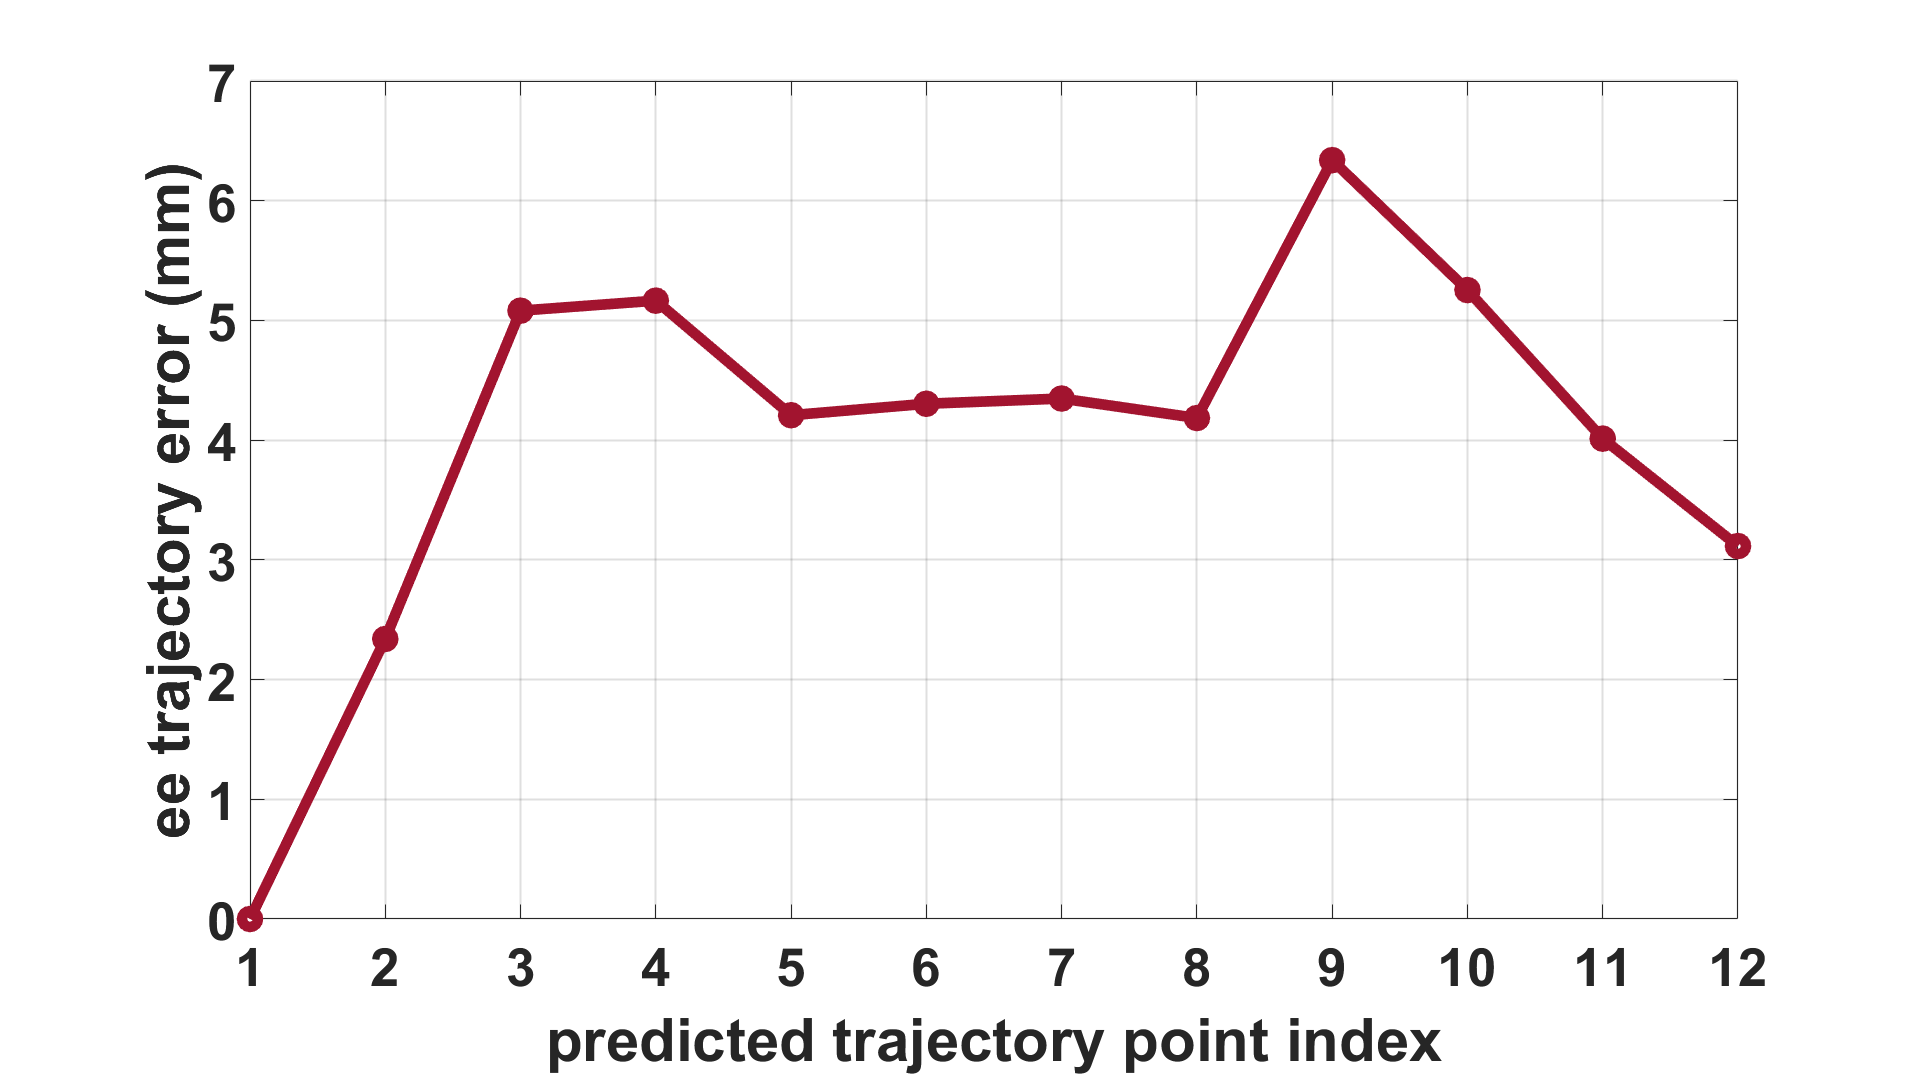
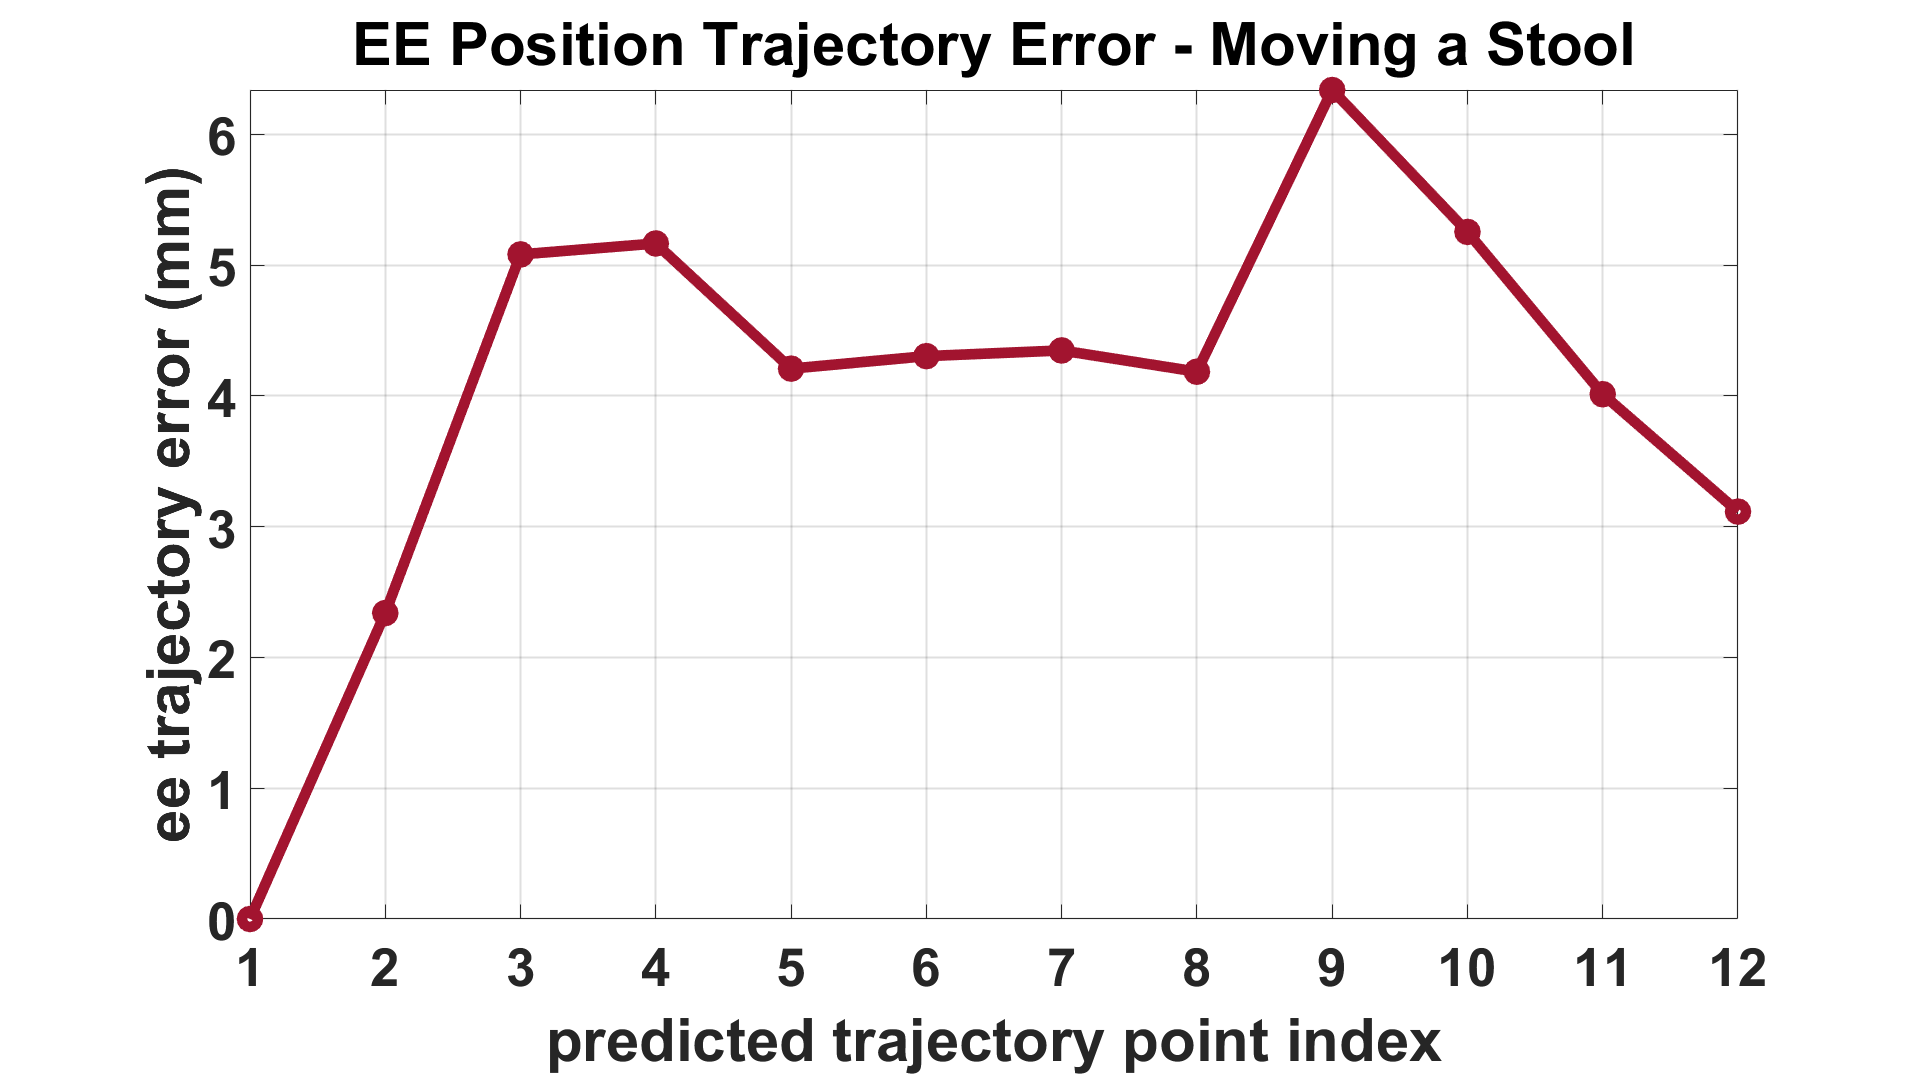
add subtitles

diff --git a/real_robot_data_plots_and_demos/moving_a_stool/ee_position_and_joint_states_plotter.m b/real_robot_data_plots_and_demos/moving_a_stool/ee_position_and_joint_states_plotter.m
@@ -184,7 +184,7 @@ grid_lw = 1.5;
 xlabel(ax_joint_states, 'time (s)');
 ylabel(ax_joint_states, 'joint states (rad)');
 legend(ax_joint_states,'Interpreter', 'none', 'Color', 'none'); % Don't interpret underscores as cues for subscripts, and don't fill the legend box
-% title(ax_joint_states, ['Actual Joint States vs. Time - ',title_postfix]);
+title(ax_joint_states, ['Actual Joint States vs. Time - ',title_postfix]);
 
 % Set fontsizes for various plot parameters
 ax_joint_states.XAxis.FontSize = tick_fontsize; 
@@ -202,7 +202,7 @@ ax_joint_states.GridLineWidth = grid_lw;
 % Set legend position
 legend_position = ax_joint_states.Legend.Position;
 shift_amount_x = 0.265; 
-shift_amount_y = 0.28; 
+shift_amount_y = 0.273; 
 ax_joint_states.Legend.Position = [legend_position(1) + shift_amount_x, legend_position(2)+ shift_amount_y, legend_position(3), legend_position(4)];
 
 % Plot Error between predicted and actual EE cartesian trajectory
@@ -307,7 +307,7 @@ ylim([-700 100])
 xlim([0 800])
 xlabel(ax_ee_traj_final, 'x(mm)');
 ylabel(ax_ee_traj_final, 'y(mm)');
-% title(ax_ee_traj_error2, ['EE Trajectory and Error - ',title_postfix]);
+title(ax_ee_traj_final, ['EE Position Trajectory - ',title_postfix]);
 
 hLegend = legend(ax_ee_traj_final, 'Interpreter', 'none', 'Color', 'none');
 hLegend.Box = 'on'; % Turn on the legend box (if not already on)
@@ -346,12 +346,13 @@ ax_ee_traj_final.Legend.Position = [legend_position(1) + shift_amount_x, legend_
 
 
 fig5 = figure(5);
-title_fontsize = 35;
+title_fontsize = 45;
 label_fontsize = 45;
 legend_fontsize = 25;
 tick_fontsize = 40;
 grid_lw = 1.5;
 ax_ee_traj_error_final = subplot(1, 1, 1, 'Parent', fig5);
+
 
 % yyaxis right
 plot(ax_ee_traj_error_final, ...
@@ -363,7 +364,7 @@ plot(ax_ee_traj_error_final, ...
      'LineWidth', 8, 'MarkerSize', 12, 'DisplayName', 'trajectory error');
 xlabel(ax_ee_traj_error_final, 'predicted trajectory point index');
 ylabel(ax_ee_traj_error_final, 'ee trajectory error (mm)');
-% title(ax_ee_traj_error3, ['EE Trajectory Error - ',title_postfix]);
+title(ax_ee_traj_error_final, ['EE Position Trajectory Error - ',title_postfix]);
 
 grid on
 xlim([point_labels(1) point_labels(end)]);
@@ -372,6 +373,7 @@ xlim([point_labels(1) point_labels(end)]);
 ax_ee_traj_error_final.XAxis.FontSize = tick_fontsize; 
 ax_ee_traj_error_final.XAxis.FontWeight = 'bold';
 ax_ee_traj_error_final.XTick = point_labels;
+
 
 ax_ee_traj_error_final.YAxis.FontSize = tick_fontsize;  % Primary Y-axis
 ax_ee_traj_error_final.YAxis.FontWeight = 'bold';
